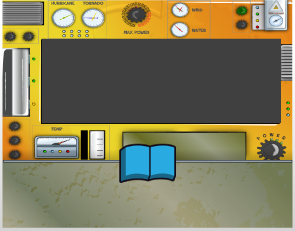
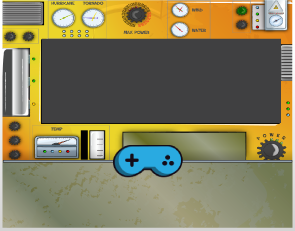
added images, footer cleaned up and story/play section updated

Changed region(s): [[0.3661, 0.6061, 0.6407, 0.7879]]

diff --git a/css/style.css b/css/style.css
@@ -83,7 +83,7 @@
 }
 
 .playButton {
-	min-height: 350px;
+	min-height: 555px;
 	background: #fbee3d;
 }
 
@@ -372,7 +372,240 @@ h3 {
 
 #name1_story_box, #name2_story_box, #name3_story_box, #name4_story_box, #name5_story_box, #name6_story_box{
 	text-align: center;
+	margin-top:1%;
+}
 
+#name1_story_box img, #name2_story_box img, #name3_story_box img, #name4_story_box img, #name5_story_box img, #name6_story_box img{
+	position:relative;
+}
+
+#name1_story_box{
+	background: url('img/Sub_Story/sub_story_d_30_30.png') no-repeat;
+	background-position: center;
+	width: 33.3%;
+	height: 231px;
+	cursor:pointer;
+}
+
+#name1_story_box:hover{
+	background: url('img/Sub_Story/sub_story_d_30_30_active.png') no-repeat;
+	background-position: center;
+	color:black;
+}
+
+#name1_story_box h2{
+	position: absolute;
+	top: 35%;
+	left: 8%;
+	font-family: 'Paytone One', sans-serif;
+	color: white;
+	text-shadow: none;
+}
+
+#name2_story_box{
+	background: url('img/Sub_Story/sub_story_d_oak_tree_new.png') no-repeat;
+	background-position: center;
+	width: 33.3%;
+	height: 231px;
+	cursor:pointer;
+}
+
+#name2_story_box:hover{
+	background: url('img/Sub_Story/sub_story_d_oak_tree_active.png') no-repeat;
+	background-position: center;
+	color:black;
+}
+
+#name2_story_box h2{
+	position: absolute;
+	top: 35%;
+	left: 40%;
+	font-family: 'Paytone One', sans-serif;
+	color: white;
+	text-shadow: none;
+}
+
+#name3_story_box{
+	background: url('img/Sub_Story/sub_story_d_tinkermeister.png') no-repeat;
+	background-position: center;
+	width: 33.3%;
+	height: 231px;
+	cursor:pointer;
+}
+
+#name3_story_box:hover{
+	background: url('img/Sub_Story/sub_story_d_tinkermeister_active.png') no-repeat;
+	background-position: center;
+	color:black;
+}
+
+#name3_story_box h2{
+	position: absolute;
+	top: 35%;
+	right: 8%;
+	font-family: 'Paytone One', sans-serif;
+	color: white;
+	text-shadow: none;
+}
+
+#name4_story_box h2{
+	position: absolute;
+	top: 84%;
+	left: 8%;
+	font-family: 'Paytone One', sans-serif;
+	color: white;
+	text-shadow: none;
+}
+
+#name5_story_box{
+	background: url('img/Sub_Story/sub_story_d_megatrack.png') no-repeat;
+	background-position: center;
+	width: 33.3%;
+	height: 231px;
+	cursor:pointer;
+}
+
+#name5_story_box:hover{
+	background: url('img/Sub_Story/sub_story_d_megatrack_active.png') no-repeat;
+	background-position: center;
+	color:black;
+}
+
+#name5_story_box h2{
+	position: absolute;
+	top: 78%;
+	left: 40%;
+	font-family: 'Paytone One', sans-serif;
+	color: white;
+	text-shadow: none;
+}
+
+#name6_story_box h2{
+	position: absolute;
+	top: 84%;
+	right: 8%;
+	font-family: 'Paytone One', sans-serif;
+	color: white;
+	text-shadow: none;
+}
+
+#name1_play_box, #name2_play_box, #name3_play_box, #name4_play_box, #name5_play_box, #name6_play_box{
+	text-align: center;
+	margin-top:1%;
+}
+
+#name1_play_box img, #name2_play_box img, #name3_play_box img, #name4_play_box img, #name5_play_box img, #name6_play_box img{
+	position:relative;
+}
+
+#name1_play_box{
+	background: url('img/Sub_Play/sub_play_d_30_30.png') no-repeat;
+	background-position: center;
+	width: 33.3%;
+	height: 231px;
+	cursor:pointer;
+}
+
+#name1_play_box:hover{
+	background: url('img/Sub_Play/sub_play_d_30_30_active.png') no-repeat;
+	background-position: center;
+	color:black;
+}
+
+#name1_play_box h2{
+	position: absolute;
+	top: 35%;
+	left: 8%;
+	font-family: 'Paytone One', sans-serif;
+	color: white;
+	text-shadow: none;
+}
+
+#name2_play_box{
+	background: url('img/Sub_Play/sub_play_d_oaktree.png') no-repeat;
+	background-position: center;
+	width: 33.3%;
+	height: 231px;
+	cursor:pointer;
+}
+
+#name2_play_box:hover{
+	background: url('img/Sub_Play/sub_play_d_oaktree_active.png') no-repeat;
+	background-position: center;
+	color:black;
+}
+
+#name2_play_box h2{
+	position: absolute;
+	top: 35%;
+	left: 40%;
+	font-family: 'Paytone One', sans-serif;
+	color: white;
+	text-shadow: none;
+}
+
+#name3_play_box{
+	background: url('img/Sub_Play/sub_play_d_tinkermeister.png') no-repeat;
+	background-position: center;
+	width: 33.3%;
+	height: 231px;
+	cursor:pointer;
+}
+
+#name3_play_box:hover{
+	background: url('img/Sub_Play/sub_play_d_tinkermeister_active.png') no-repeat;
+	background-position: center;
+	color:black;
+}
+
+#name3_play_box h2{
+	position: absolute;
+	top: 35%;
+	right: 8%;
+	font-family: 'Paytone One', sans-serif;
+	color: white;
+	text-shadow: none;
+}
+
+#name4_play_box h2{
+	position: absolute;
+	top: 84%;
+	left: 8%;
+	font-family: 'Paytone One', sans-serif;
+	color: white;
+	text-shadow: none;
+}
+
+#name5_play_box{
+	background: url('img/Sub_Play/sub_play_d_megatrack.png') no-repeat;
+	background-position: center;
+	width: 33.3%;
+	height: 231px;
+	cursor:pointer;
+}
+
+#name5_play_box:hover{
+	background: url('img/Sub_Play/sub_play_d_megatrack_active.png') no-repeat;
+	background-position: center;
+	color:black;
+}
+
+#name5_play_box h2{
+	position: absolute;
+	top: 78%;
+	left: 40%;
+	font-family: 'Paytone One', sans-serif;
+	color: white;
+	text-shadow: none;
+}
+
+#name6_play_box h2{
+	position: absolute;
+	top: 84%;
+	right: 8%;
+	font-family: 'Paytone One', sans-serif;
+	color: white;
+	text-shadow: none;
 }
 
 #box1, #box2, #box3, #box4, #box5, #box6{
@@ -386,11 +619,12 @@ h3 {
 	left: 0px;
 	bottom: 0px;
 	height: 75px;
-	width: 100%;
-	background: #f16022;
+	width: 100%; 
 	text-align: center;
 	z-index: 1000;
-	background-image: url('img/footer_etching.png') no-repeat;
+	background: #f16022 url('img/footer_etching.png') no-repeat;
+	background-position: center;
+	background-size: 77%;
 	
 }
 
@@ -420,17 +654,23 @@ h3 {
 }
 
 .bottomMenu{
-	margin-left:241px;
+	margin-left:270px;
+	background: url('img/footer_etching.png') no-repeat;
+	
+	
 }
 
 .bottomMenu a {
-	color: white;
+	color: white !important;
+	text-decoration:none;
+	text-shadow: none;
+	font-family: Arial, Helvetica, Tahoma, sans-serif;
+	font-size:1em; 
 }
 
 .bottomMenu li{
 	margin-left: 37px;
 	list-style-type: circle;
-	list-style-position: inside;
 	float: left;
 	color: white;
 }

diff --git a/css/jquery.mobile-1.3.2.css b/css/jquery.mobile-1.3.2.css
@@ -348,7 +348,7 @@
 }
 .ui-body-c .ui-link {
 	color: #2489ce /*{c-body-link-color}*/;
-	font-weight: bold;
+	/*font-weight: bold;*/
 }
 .ui-body-c .ui-link:visited {
     color: #2489ce /*{c-body-link-visited}*/;

diff --git a/index.php b/index.php
@@ -47,13 +47,13 @@
 				<h2>Explore the Stories</h2>
 				<p>See all the fun things related to each of the stories</p>
 			</div>
-			<div id="name1_box" class="grid_2 morph">
+			<div id="name1_box" class="grid_4 morph">
 				<a href="thirtyrule.php" rel="external"><img src="css/img/thirty_main_m.png" width="253" height="247" alt="Thirty Main M"></a>
 			</div>
-			<div id="name2_box" class="grid_2 morph">
+			<div id="name2_box" class="grid_4 morph">
 				<a href="tinkermeister.php"><img src="css/img/tinker_main_m.png" width="226" height="288" alt="Tinker Main M"></a>
 			</div>
-			<div id="name3_box" class="grid_2 morph">
+			<div id="name3_box" class="grid_4 morph">
 				<a href="oaktree.php"><img src="css/img/oak_main_m.png" width="236" height="270" alt="Oak Main M"></a>
 			</div>
 			<div id="name4_box" class="grid_2 morph">
@@ -71,35 +71,48 @@
 		</div>
 
 		<div class="section storyButton" id="homeStory">
-			<div id="name1_story_box" class="grid_4">
-				<img src="css/img/thirty_story_m.png" width="600" height="482" alt="Thirty Story M">
+			<div id="name1_story_box" class="grid_4" onclick="location.href='thirtyrule.php'">
+				<h2>The 30/30 Rule</h2>
 			</div>
 			<div id="name2_story_box" class="grid_4">
-				<img src="css/img/oak_story_m.png" width="600" height="482" alt="Oak Story M">
+				 <h2>The Oak Tree Club</h2>
 			</div>
 			<div id="name3_story_box" class="grid_4">
-				<img src="css/img/tinker_story_m.png" width="600" height="482" alt="Tinker Story M">
+				<h2>Tinkermeister</h2>
 			</div>
-			<div id="name4_story_box" class="grid_12">
-				<img src="css/img/megatrack_story_m.png" width="600" height="482" alt="Megatrack Story M">
+			<div id="name4_story_box" class="grid_4">
+				<img src="css/img/Sub_Story/sub_story_d_megatrack.png" width="295" height="231" alt="Sub Story D Megatrack">
+				<h2></h2>
+			</div>
+			<div id="name5_story_box" class="grid_4">
+				<h2>Mega Track HTW</h2>
+			</div>
+			<div id="name6_story_box" class="grid_4">
+				<img src="css/img/Sub_Story/sub_story_d_megatrack.png" width="295" height="231" alt="Sub Story D Megatrack">
+				<h2></h2>
 			</div>
 		</div>
 
 		<div class="section playButton" id="homePlay">
-			<div id="topStoryEtching">
-				<img src="css/img/bottom_main_etching_m.png" width="568" height="46" alt="Bottom Main Etching M">
+			<div id="name1_play_box" class="grid_4" onclick="location.href='thirtyrule.php'">
+				<h2>The 30/30 Rule</h2>
 			</div>
-			<div id="name1_play_box" class="grid_6">
-				<img src="css/img/thirty_m_play.png" width="598" height="546" alt="Thirty M Play">
+			<div id="name2_play_box" class="grid_4">
+				 <h2>The Oak Tree Club</h2>
 			</div>
-			<div id="name2_play_box" class="grid_6">
-				<img src="css/img/disaster_play_m.png" width="598" height="557" alt="Disaster Play M">
+			<div id="name3_play_box" class="grid_4">
+				<h2>Tinkermeister</h2>
 			</div>
-			<div id="name3_play_box" class="grid_6">
-				<img src="css/img/whiz_play_m.png" width="598" height="519" alt="Whiz Play M">
+			<div id="name4_play_box" class="grid_4">
+				<img src="css/img/Sub_Story/sub_story_d_megatrack.png" width="295" height="231" alt="Sub Story D Megatrack">
+				<h2></h2>
 			</div>
-			<div id="name4_play_box" class="grid_6">
-				<a href="http://onelink.to/f5csuw"><img src="css/img/firewise_play_m.png" width="598" height="519" alt="Firewise Play M"></a>
+			<div id="name5_play_box" class="grid_4">
+				<h2>Mega Track HTW</h2>
+			</div>
+			<div id="name6_play_box" class="grid_4">
+				<img src="css/img/Sub_Story/sub_story_d_megatrack.png" width="295" height="231" alt="Sub Story D Megatrack">
+				<h2></h2>
 			</div>
 		</div>
 
